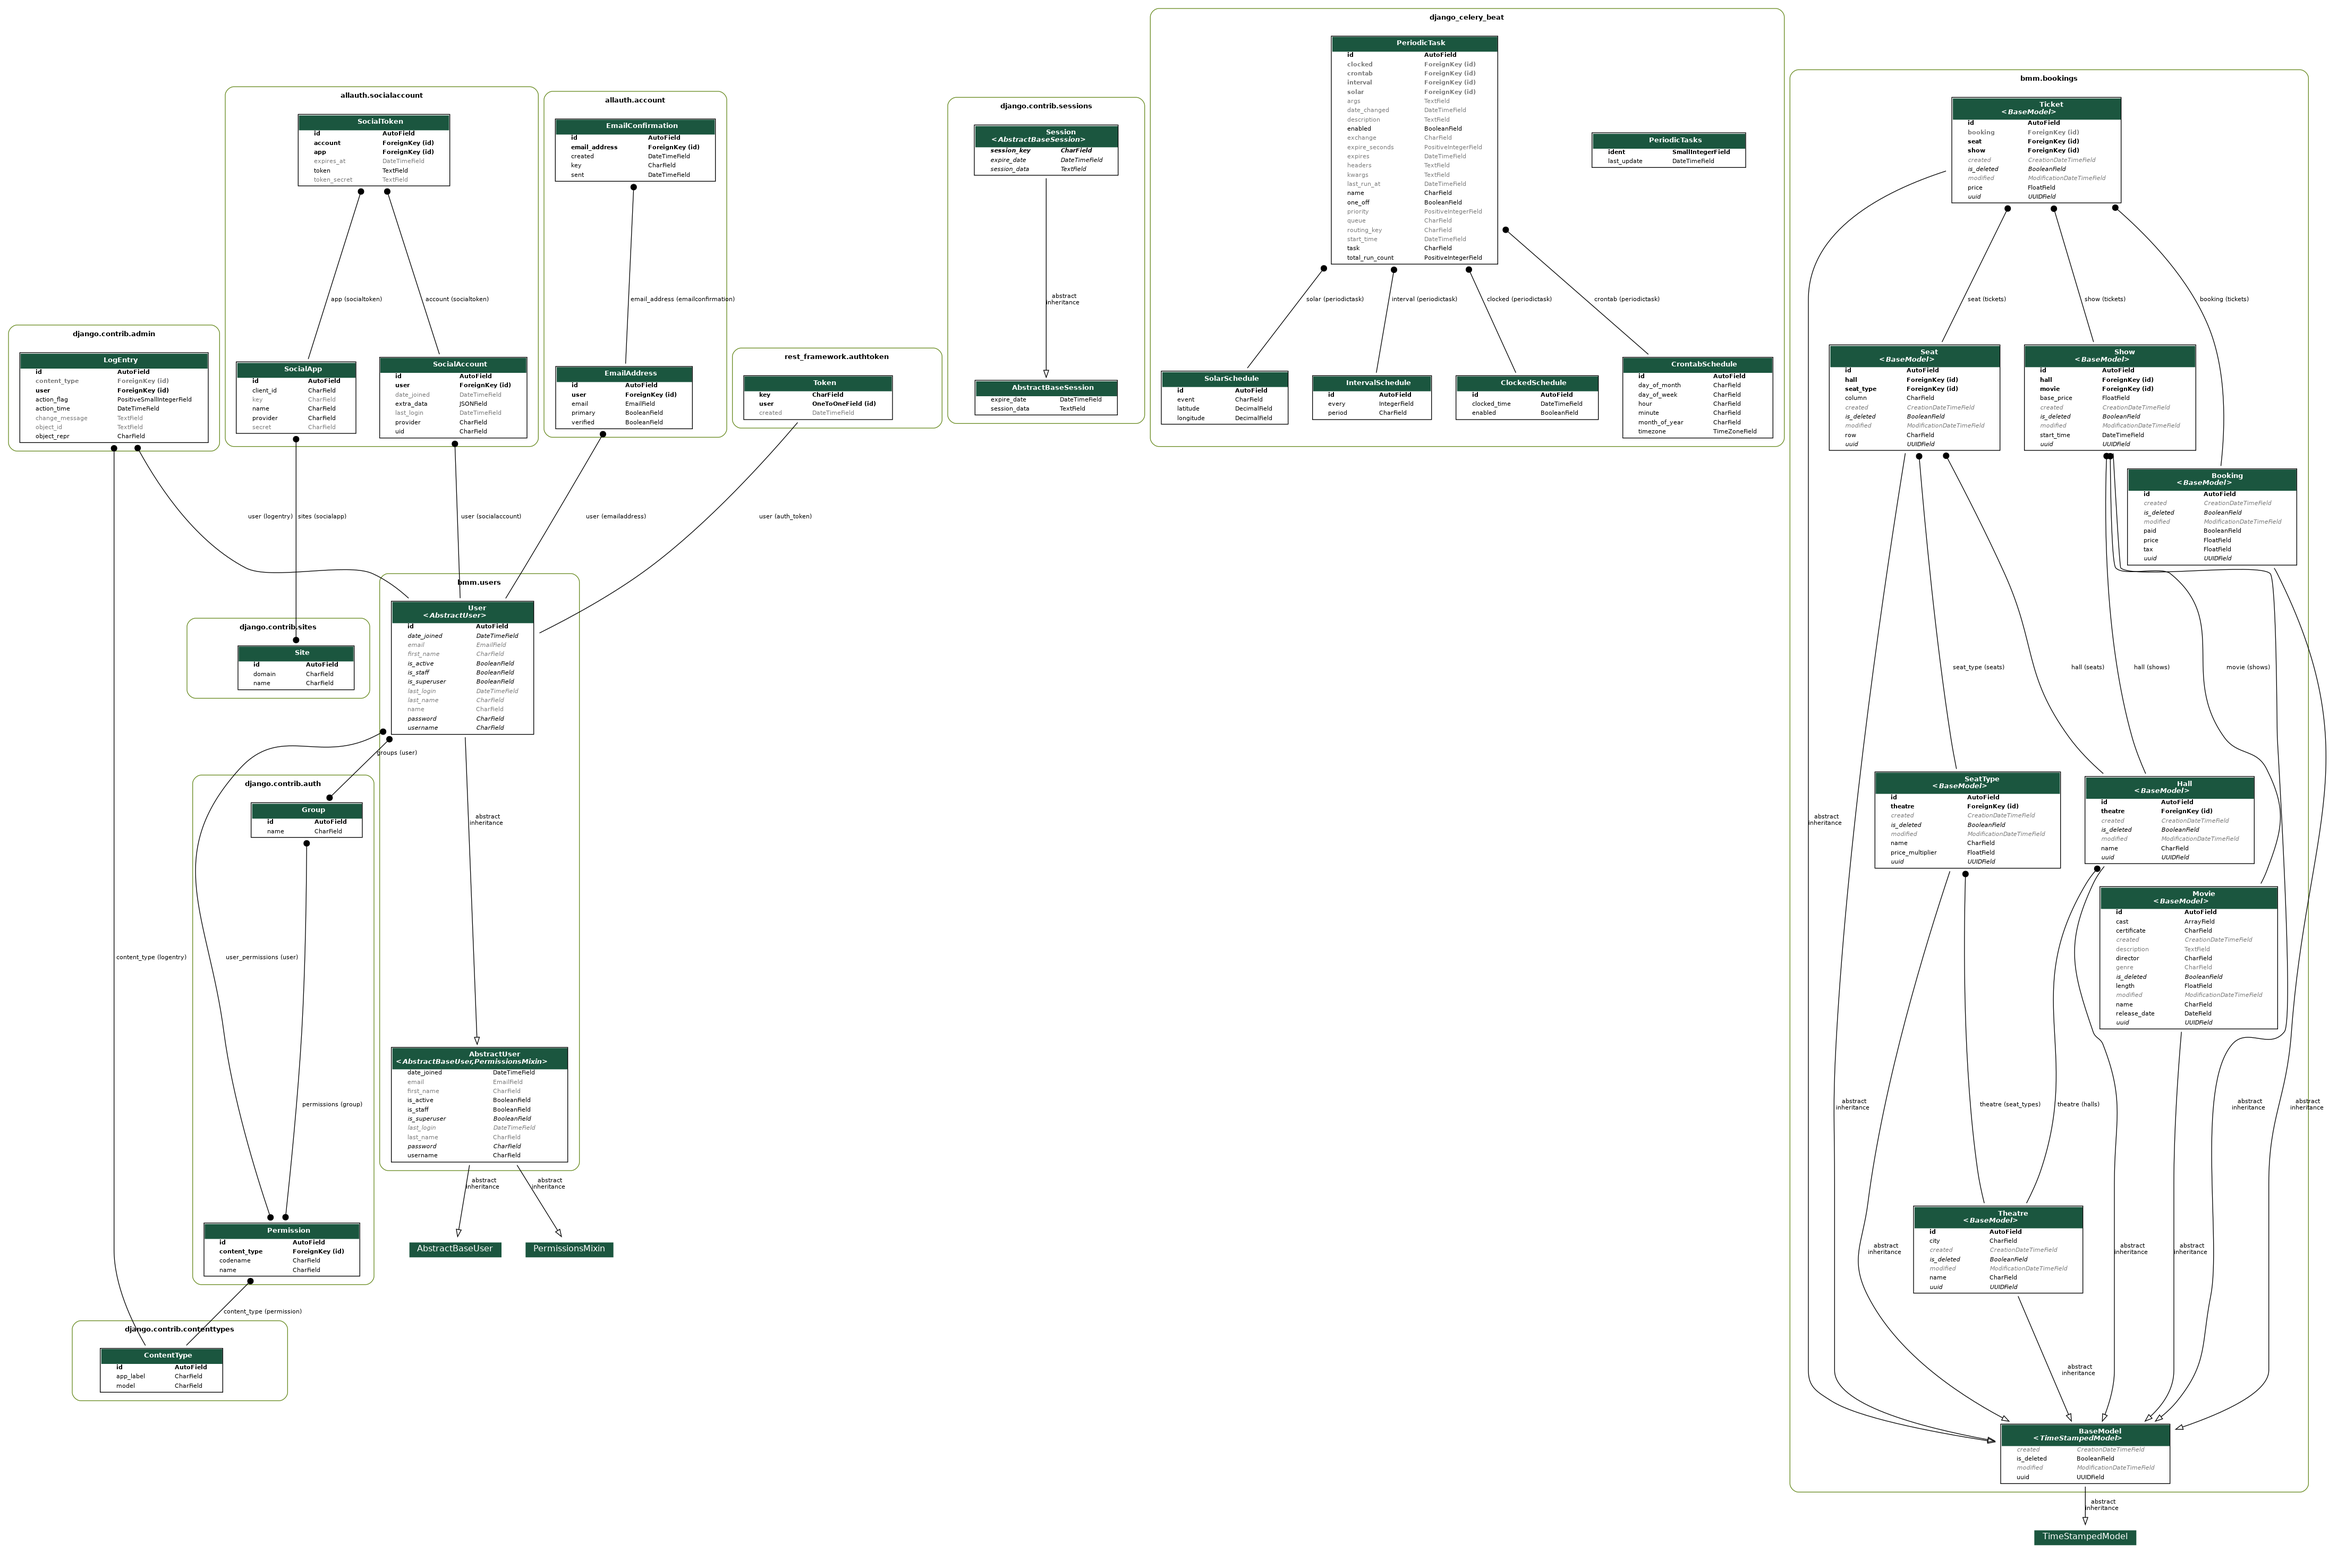
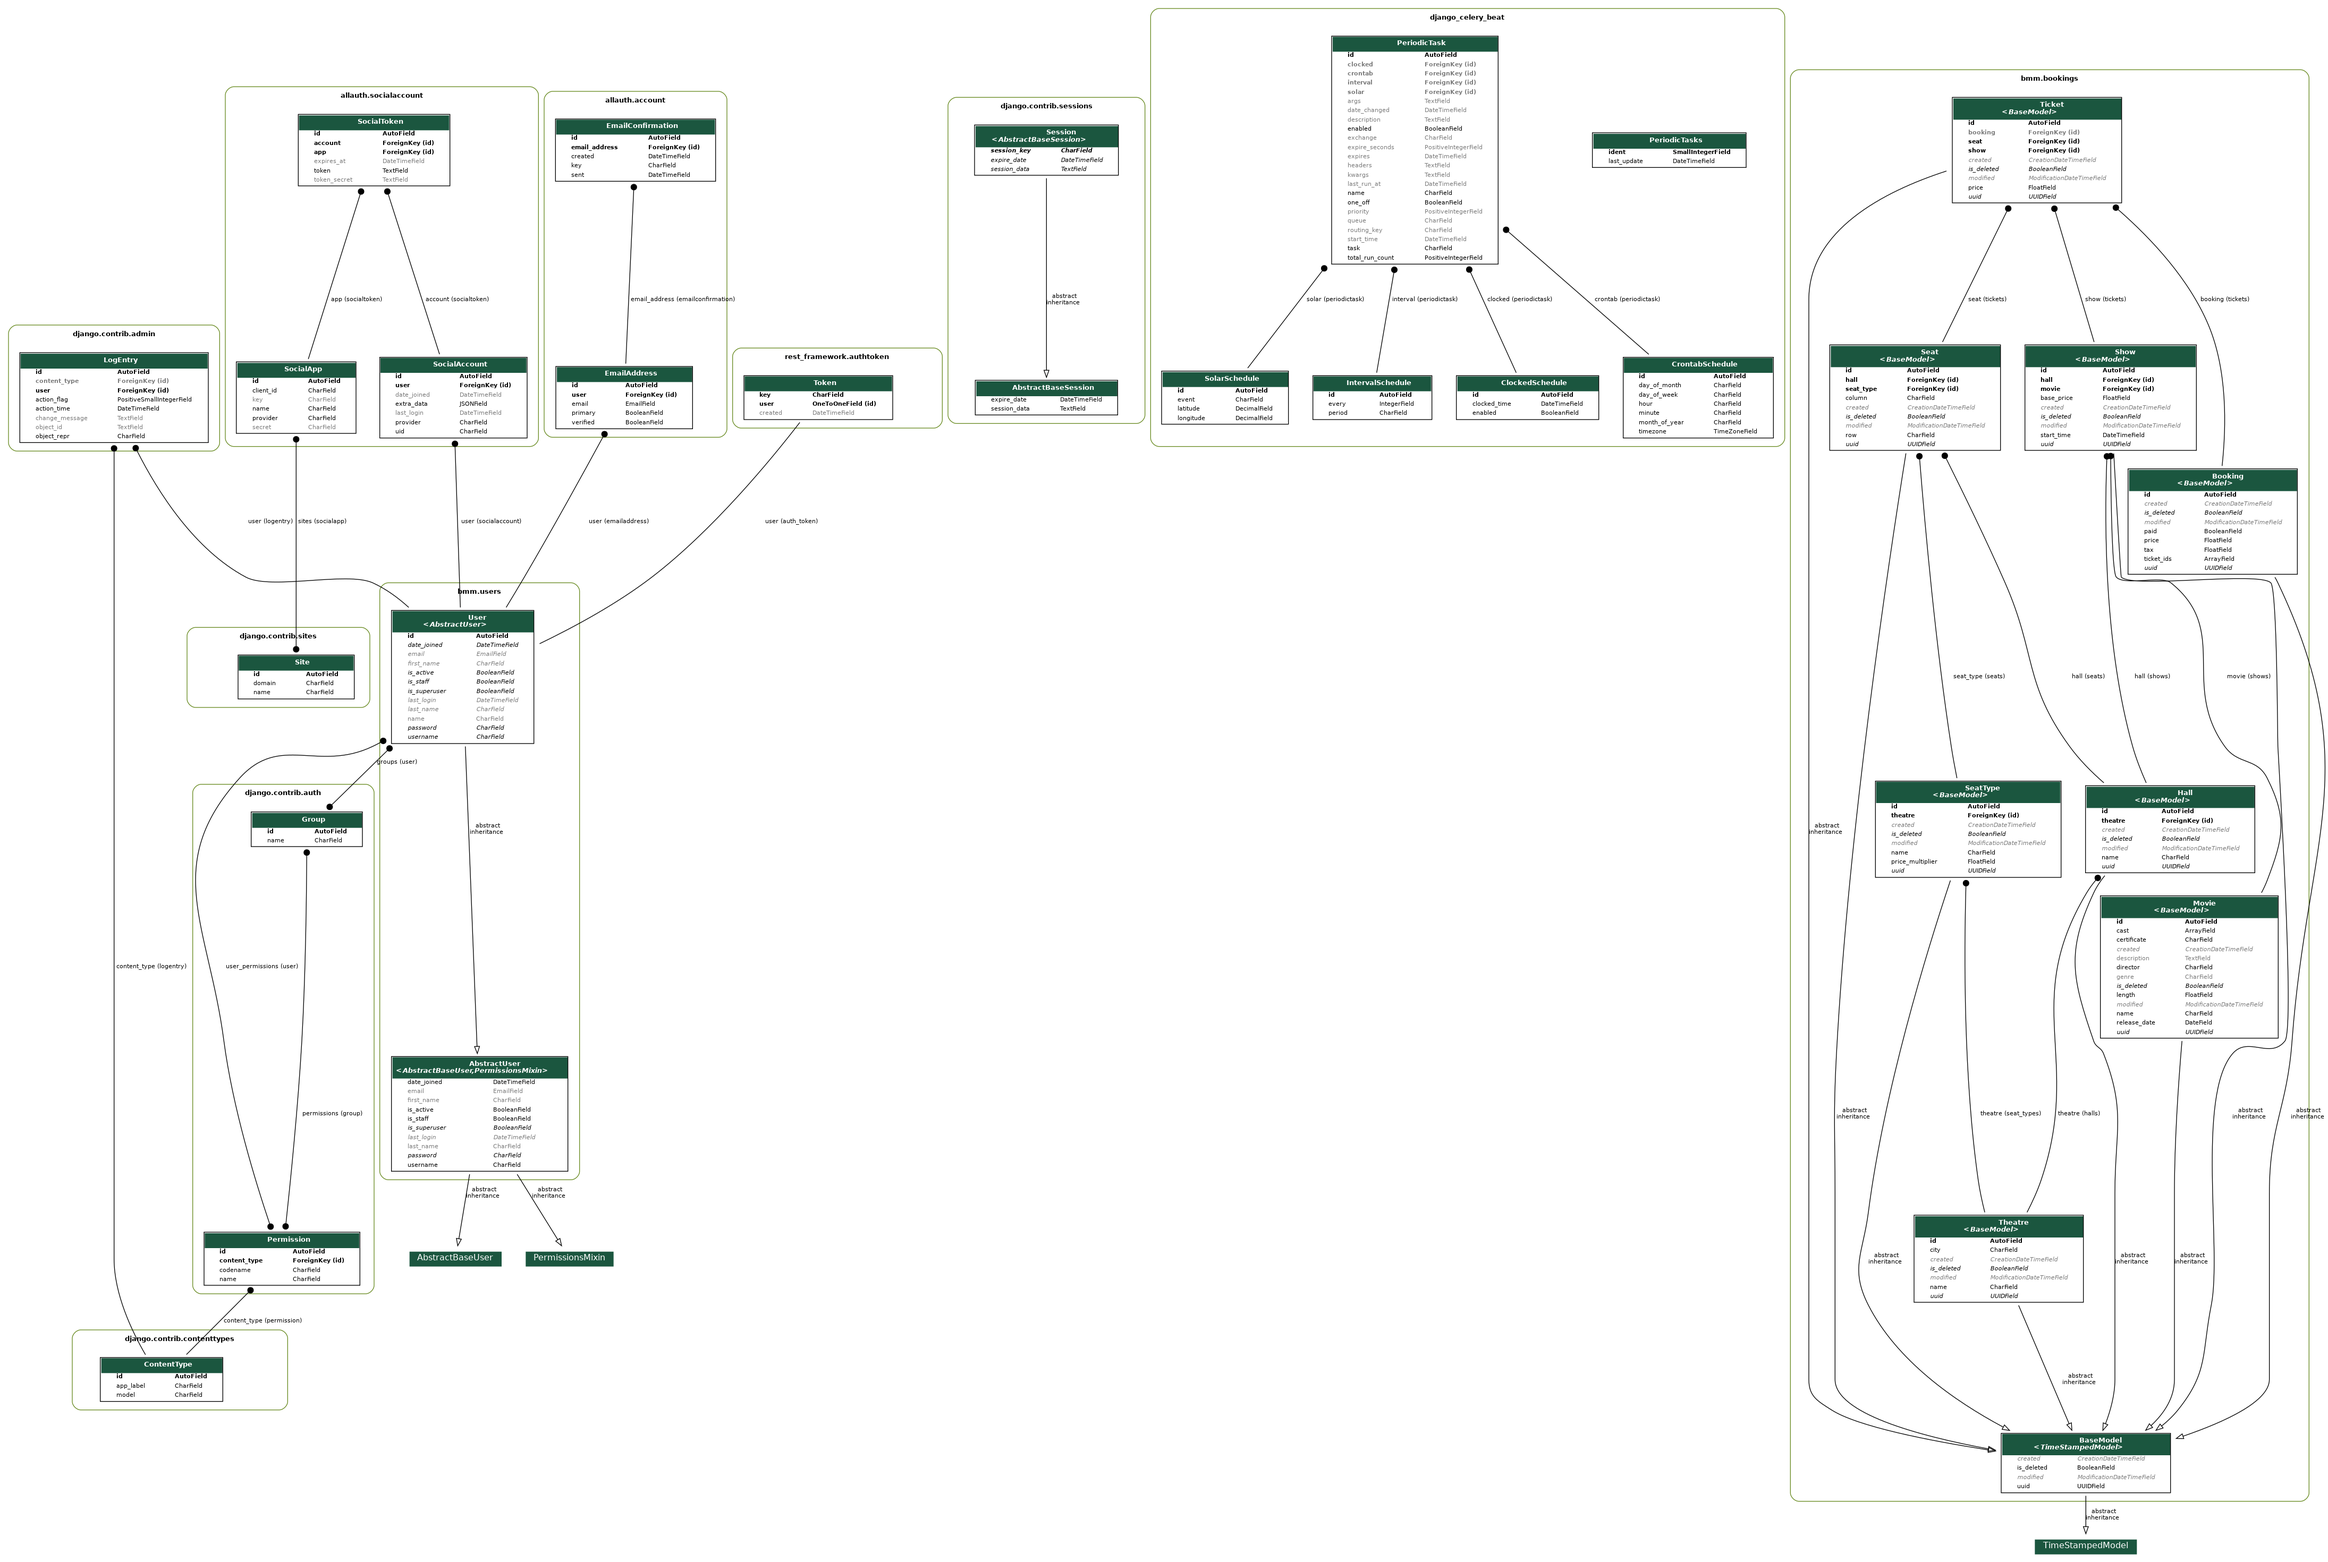
added celery tasks, to create show tickets and to delete booking if unpaid after sometime

diff --git a/bmm/bookings/api.py b/bmm/bookings/api.py
@@ -1,8 +1,12 @@
 import logging
 from io import BytesIO
 from mimetypes import MimeTypes
-
+from datetime import datetime
 import django_filters
+
+from celery.utils.log import get_task_logger
+from celery import shared_task, chord, chain, group
+
 from django.conf import settings
 from django.core.exceptions import ObjectDoesNotExist
 from django.http import JsonResponse, HttpResponse, StreamingHttpResponse
@@ -43,7 +47,8 @@ from bmm.bookings.serializers import (
 )
 
 from bmm.bookings.services import (
-    TicketServices
+    TicketServices,
+    BookingServices,
 )
 
 logger = logging.getLogger(__name__)
@@ -140,7 +145,9 @@ class ShowViewSet(viewsets.ModelViewSet):
         serializer = self.get_serializer(data=request.data)
         serializer.is_valid(raise_exception=True)
         self.perform_create(serializer)
-        TicketServices.create_tickets_for_show(serializer.data.get('id', None))
+        show_id = serializer.data.get('id', None)
+        logger.info(f"Sending task for creating tickets for show id: {show_id}")
+        TicketServices.create_tickets_for_show.apply_async((show_id,))
         headers = self.get_success_headers(serializer.data)
         return Response(serializer.data, status=status.HTTP_201_CREATED, headers=headers)
 
@@ -157,6 +164,21 @@ class BookingViewSet(viewsets.ModelViewSet):
     search_fields = default_search_fields + ['price', 'tax', 'paid']
     ordering_fields = default_ordering_fields + ['price', 'tax', 'paid']
     ordering = ['-created']
+
+    def create(self, request, *args, **kwargs):
+        serializer = self.get_serializer(data=request.data)
+        serializer.is_valid(raise_exception=True)
+        self.perform_create(serializer)
+        TicketServices.book_tickets(
+            serializer.data.get('ticket_ids', None),
+            serializer.data.get('id', None)
+        )
+        # Create 1 task to delete booking if payment not done after time.
+        BookingServices.delete_if_unpaid.apply_async((serializer.data.get('id', None),), countdown=100)
+        headers = self.get_success_headers(serializer.data)
+        return Response(serializer.data, status=status.HTTP_201_CREATED, headers=headers)
+
+
 
 
 class TicketViewSet(viewsets.ModelViewSet):

diff --git a/bmm/bookings/services.py b/bmm/bookings/services.py
@@ -1,3 +1,9 @@
+import time
+from celery.utils.log import get_task_logger
+from celery import shared_task, chord, chain, group
+
+from django.utils import timezone
+
 from bmm.bookings.models import (
     Movie,
     Theatre,
@@ -9,6 +15,8 @@ from bmm.bookings.models import (
     Ticket
 )
 
+
+
 import logging
 
 logger = logging.getLogger(__name__)
@@ -17,6 +25,7 @@ logger = logging.getLogger(__name__)
 class TicketServices:
 
     @staticmethod
+    @shared_task(name="create_tickets_for_show", time_limit=60 * 30, soft_time_limit=60 * 30)
     def create_tickets_for_show(show_id):
 
         show = Show.objects.get(id=show_id)
@@ -33,4 +42,33 @@ class TicketServices:
 
         Ticket.objects.bulk_create(tickets)
 
+    @staticmethod
+    def book_tickets(ticket_ids, booking_id):
+
+        booking = Booking.objects.get(id=booking_id)
+
+        tickets = []
+        for ticket_id in ticket_ids:
+            ticket = Ticket.objects.get(id=ticket_id)
+            ticket.booking = booking
+            tickets.append(ticket)
+
+        Ticket.objects.bulk_update(tickets, ['booking'])
+
+
+class BookingServices:
+
+    @staticmethod
+    @shared_task(name="delete_if_unpaid", time_limit=60 * 30, soft_time_limit=60 * 30)
+    def delete_if_unpaid(booking_id=None):
+        logger.info(f"Delete booking invoked for: {booking_id}")
+        bookings = Booking.objects.filter(id=booking_id)
+
+        for booking in bookings:
+            booking_timedelta = (timezone.now() - booking.modified).seconds
+            if not booking.paid and booking_timedelta >= 100:
+                logger.info(f"Deleting Booking with ID: {booking.id} as it is unpaid"
+                            f" and create more than {100} seconds ago.")
+                booking.delete()
+                booking.tickets.update(booking=None)
 

diff --git a/bmm/bookings/migrations/0003_auto_20200921_0309.py b/bmm/bookings/migrations/0003_auto_20200921_0309.py
@@ -1,0 +1,31 @@
+# Generated by Django 3.0.10 on 2020-09-21 03:09
+
+import datetime
+import django.contrib.postgres.fields
+from django.db import migrations, models
+
+
+class Migration(migrations.Migration):
+
+    dependencies = [
+        ('bookings', '0002_auto_20200920_1648'),
+    ]
+
+    operations = [
+        migrations.AddField(
+            model_name='booking',
+            name='ticket_ids',
+            field=django.contrib.postgres.fields.ArrayField(base_field=models.CharField(max_length=100), default=[], size=None),
+            preserve_default=False,
+        ),
+        migrations.AlterField(
+            model_name='movie',
+            name='release_date',
+            field=models.DateField(default=datetime.date(2020, 9, 21), verbose_name='Movie Release Date'),
+        ),
+        migrations.AlterField(
+            model_name='show',
+            name='base_price',
+            field=models.FloatField(verbose_name='Base Price'),
+        ),
+    ]

diff --git a/config/celery_app.py b/config/celery_app.py
@@ -15,3 +15,12 @@ app.config_from_object("django.conf:settings", namespace="CELERY")
 
 # Load task modules from all registered Django app configs.
 app.autodiscover_tasks()
+
+app.conf.beat_schedule = {
+    # Every 30 minutes, it checks and
+    'delete_if_unpaid': {
+        'task': 'delete_if_unpaid',
+        'schedule': 1800.0,
+    },
+}
+

diff --git a/bmm/bookings/serializers.py b/bmm/bookings/serializers.py
@@ -105,6 +105,7 @@ class BookingSerializer(ModelSerializer):
             'price',
             'tax',
             'paid',
+            'ticket_ids',
         ]
         fields = default_fields + model_specific_fields
         read_only_fields = default_readonly_fields

diff --git a/bmm/bookings/models.py b/bmm/bookings/models.py
@@ -287,6 +287,10 @@ class Booking(BaseModel):
         null=False, blank=False, default=False
     )
 
+    ticket_ids = ArrayField(
+        models.CharField(max_length=100, blank=False)
+    )
+
     # class Meta:
     #     db_table = 'smart_parser_parser'
 
